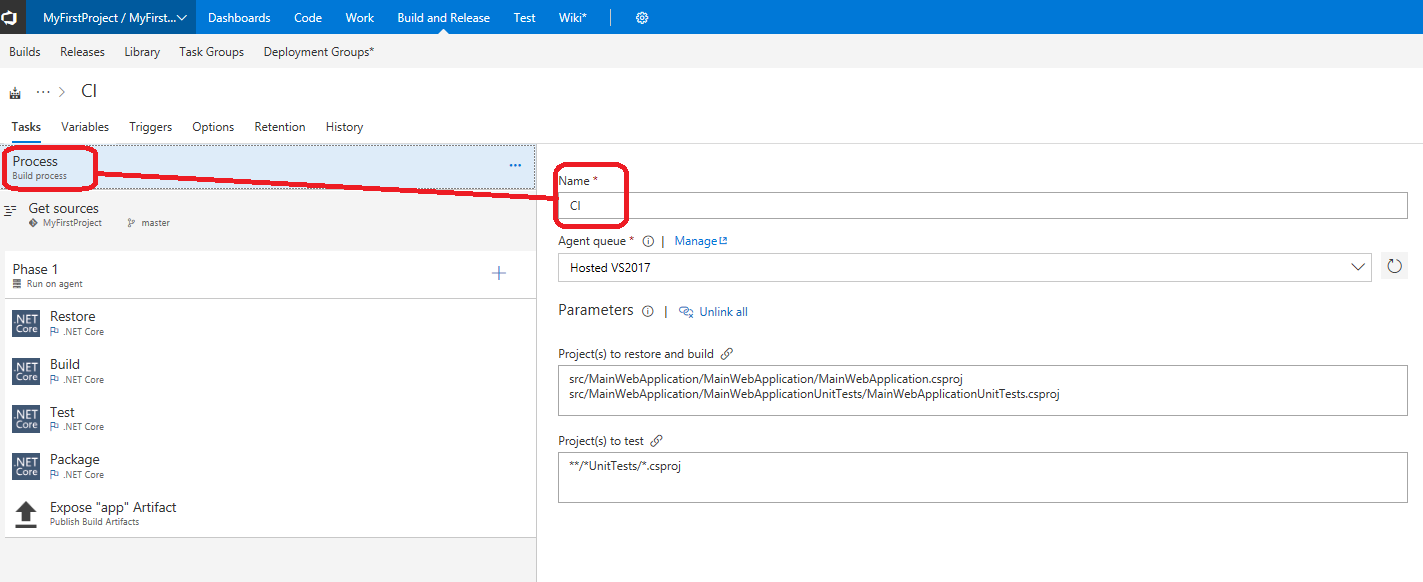
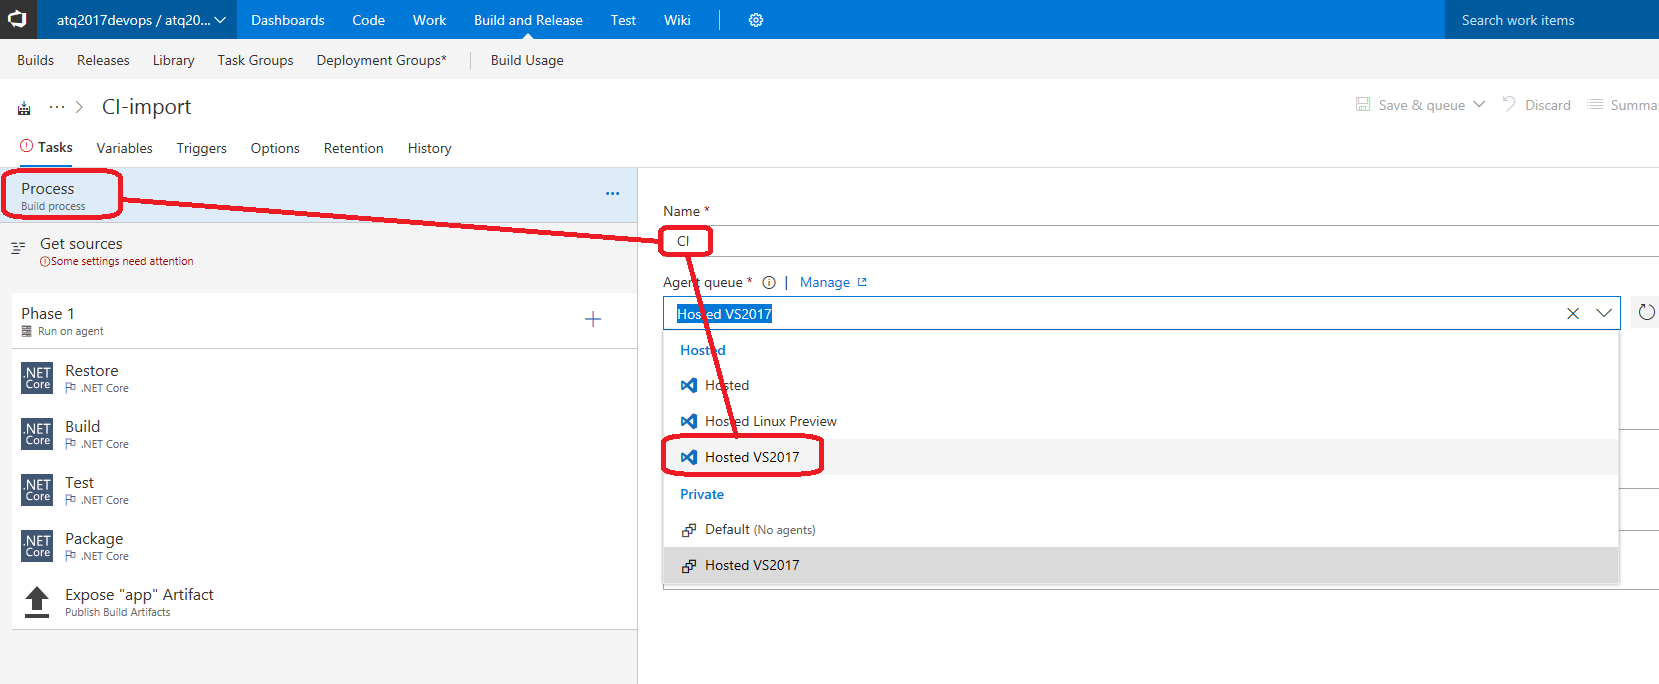
Update the setup definition after import according the issue with the incorrect Hosted VS2017 agent selected in the Agent queue field.

diff --git a/docs/Lab 2 - Continuous Integration/README.md b/docs/Lab 2 - Continuous Integration/README.md
@@ -38,7 +38,7 @@ https://raw.githubusercontent.com/mathieu-benoit/DevOpsOnAzureLab/master/docs/La
 
 ![VSTSBuild - New Definition](./imgs/VSTSBuild-NewDefinition.PNG)
 
-3. Once the Build definition has been imported, you will land on the **Tasks** > **Process** step, change the **Name** field to `CI`:
+3. Once the Build definition has been imported, you will land on the **Tasks** > **Process** step, change the **Name** field to `CI` and choose the correct `Hosted VS2017` value for the **Agent queue** field (otherwise you will get an error while saving and queueing your build):
 
 ![VSTSBuild - Setup Definition](./imgs/VSTSBuild-SetupDefinition.PNG)
 
